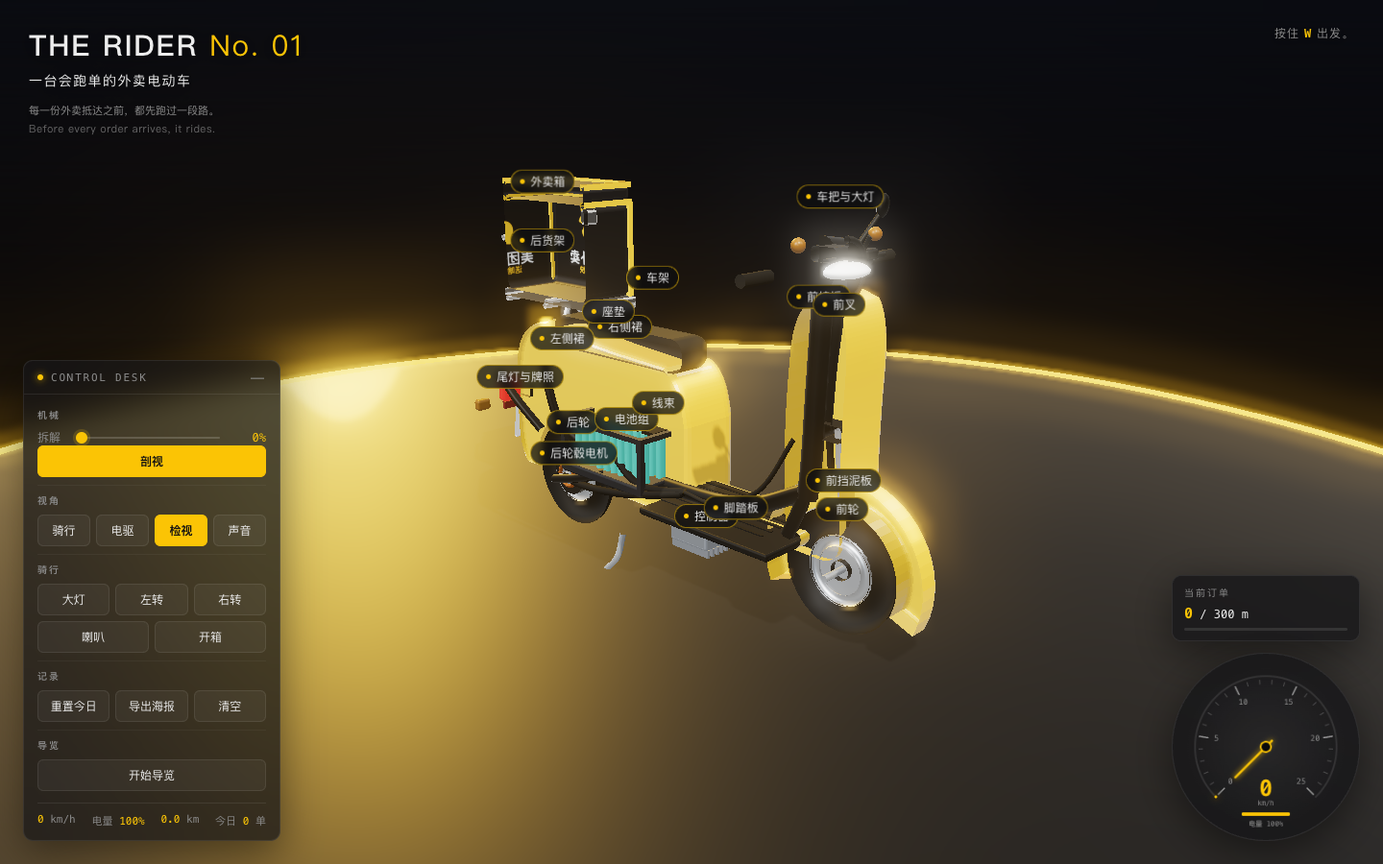
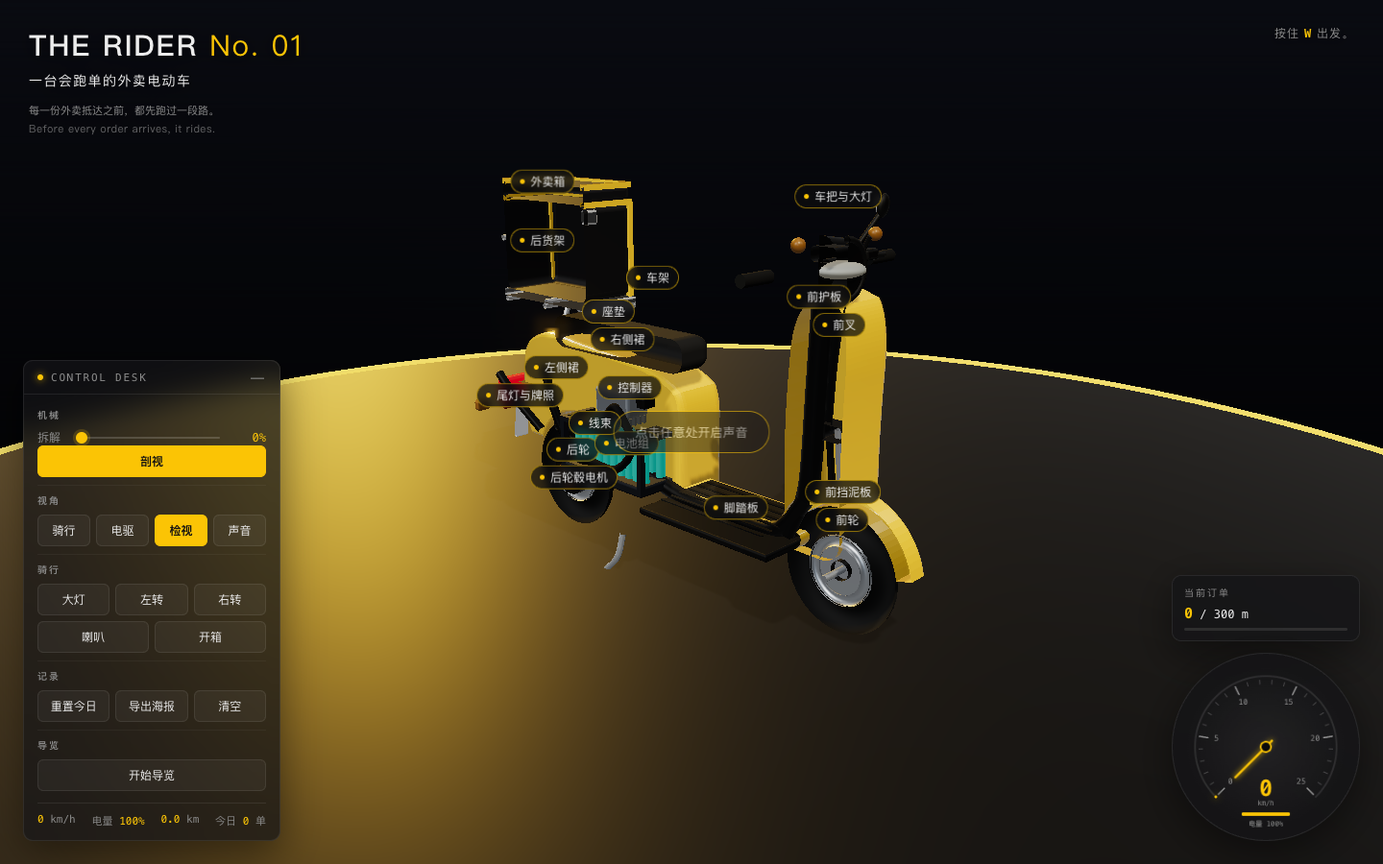
chore: 阶段4 收尾 —— README、SPEC 8.2 光照参数对齐、验收产物归档
- README：补运行方式、键位、四个视角、玩法、目录结构、技术要点与已知问题，
  并写入 GitHub Pages 线上地址
- SPEC 8.2：environmentIntensity 0.6→0.3、UnrealBloomPass threshold 0.85→1.0
  （strength 0.35），灯光数值补齐，与 stage.js 落地值一致（V5）
- qa/：归档第 1 轮验收报告、14 张复截与 v12 窄幅构图截图
- notes/：各 Agent handoff 与集成请求留档

diff --git a/notes/handoff-scene.md b/notes/handoff-scene.md
@@ -4,13 +4,13 @@
 
 | 文件 | 行数 | 说明 |
 |---|---|---|
-| `src/scene/index.js` | 340 | 编排：道路与展台、车辆挂接、拆解、剖视、高亮、拾取、标签、主循环 |
-| `src/scene/stage.js` | 88 | 渲染器、背景、PMREM 环境、灯光、后期链 |
-| `src/scene/camera.js` | 109 | 视角 tween、骑行抖动、FOV、检视拆解自动拉远 |
+| `src/scene/index.js` | 403 | 编排：道路与展台、车辆挂接、拆解、剖视、高亮、内部件揭示、拾取、标签、主循环 |
+| `src/scene/stage.js` | 90 | 渲染器、背景、PMREM 环境、灯光、后期链 |
+| `src/scene/camera.js` | 134 | 视角 tween、骑行抖动、FOV、检视拆解自动拉远、窄幅宽高比补偿 |
 | `src/scene/flash.js` | 57 | 声音视角发声零件闪光（材质替换） |
-| `src/scene/road.js` | 171 | 路面 / 路灯 / 路沿（InstancedMesh 滚动）与圆形展台，骑行↔展台交叉淡出 |
+| `src/scene/road.js` | 193 | 路面 / 路灯 / 路沿（InstancedMesh 滚动）与圆形展台，骑行↔展台交叉淡出、近相机路灯缩没 |
 | `src/scene/xray.js` | 116 | X 光材质快照 / 还原、内部发光、线束虚线流动 |
-| `src/scene/labels.js` | 76 | CSS2DRenderer 零件标签（世界空间跟踪） |
+| `src/scene/labels.js` | 129 | CSS2DRenderer 零件标签（世界空间跟踪 + 屏幕空间碰撞避让） |
 | `src/scene/views.js` | 43 | 四个视角机位 + `MODEL_VIEW` + OrbitControls 约束 |
 | `src/scene/explode.js` | 30 | 分层拆解进度映射、应用、整体包围盒 |
 | `src/scene/highlight.js` | 14 | OutlinePass 选中零件 |
@@ -50,19 +50,23 @@ export function createSim({ scene, scooter } = {})  // 入参可选
 ## 实现要点（对应 SPEC 8.2–8.5）
 
 - **渲染器**：`antialias`、`pixelRatio = min(dpr, 2)`、ACESFilmic、曝光 1.0、PCFSoftShadowMap、`localClippingEnabled`。
-- **环境**：`PMREMGenerator.fromScene(new RoomEnvironment(), 0.04)`，`environmentIntensity = 0.6`。
-- **灯光**：暖主光 `(4,6,3)` 强度 3.2、shadow map 2048、±4.5 视锥；美团黄轮廓光 `(-5,2.4,-2.5)` 2.6；Hemisphere 0.45；补光 0.55；大头灯 SpotLight 挂车头（`rig.headSpot`，`state.lights.head` → 强度 120，物理单位）。
-- **后期链**：RenderPass → OutlinePass（`#FBC405`，edgeStrength 3.2 / glow 0.35 / thickness 1.1 / pulse 2.8）→ UnrealBloomPass（0.5, 0.4, threshold 0.85）→ OutputPass（最后）。
+- **环境**：`PMREMGenerator.fromScene(new RoomEnvironment(), 0.04)`，`environmentIntensity = 0.3`（SPEC 8.2 写 0.6，过高会把黄漆的蓝通道抬起来 → 去饱和，详见 `notes/requests.md` 的偏差留档）。
+- **灯光**：暖主光 `(4,6,3)` 强度 2.2、shadow map 2048、±4.5 视锥；美团黄轮廓光 `(-5,2.4,-2.5)` 1.5；Hemisphere 0.3；补光 0.35；大头灯 SpotLight 挂车头（`rig.headSpot`，`state.lights.head` → 强度 120，物理单位）。
+- **后期链**：RenderPass → OutlinePass（`#FBC405`，edgeStrength 3.2 / glow 0.35 / thickness 1.1 / pulse 2.8）→ UnrealBloomPass（0.35, 0.4, threshold 1.0）→ OutputPass（最后）。
 - **道路**：CanvasTexture 沥青 + 黄色虚线，`repeat.x = 200/8`，`offset.x += speed*dt/8`；路灯/路沿 InstancedMesh，x 减 `speed*dt`，出 -40 加 80 循环；骑行视角显示，其余视角 0.31s 内淡出到圆形展台（发光黄圈）。
+- **近相机路灯缩没**：灯头（自发光 `emissiveIntensity 2.4`）在相机贴近时会占掉画面一大块并过曝成白斑。`layout(dist, cam)` 按灯头角尺寸占水平视场角的比例（`FADE_MAX 0.32` 开始缩没、`FADE_MIN 0.15` 完全消失）对整个灯实例 `scale` 渐缩；比例与画幅无关，1440×900 下最近路灯占比仅 0.11，恒为原尺寸，横屏效果不变。
 - **物理**：`accel = throttle*3`、`drag = 0.4 + 0.02v²`、`brake*6`，`clamp(…, 0, 6.94)`；电量 / 里程 / 订单进度按 SPEC 8.3；`orderTarget` 到达后 `orders+1` 并发 `order:delivered`，下一单 200~400 随机。
 - **rig**：车轮 `rotation.z -= speed/0.20*dt`；`steerPivot.rotation.y = steer*0.35`；`bodyLean.rotation.x = -steer*0.1*min(speed/3,1)`；转向灯 380ms 周期，每次切换发 `signal:tick`；箱盖 tween 到 1.22 rad（≈70°）；油门 >0.05 收脚撑（`rotation.x → +1.15`），停稳放下。
 - **视角**：1.2s tween 同时插值 `camera.position` 与 `controls.target`，过渡期间 `controls.enabled = false`；`drive` 自动开 X 光（透明 0.12 / depthWrite false / 内部发光 / 线束虚线偏移随油门），其他视角还原；`inspect` 开标签与点击拾取，结束才允许 OrbitControls。
 - **拆解**：`layerStart = (4-layer)*0.15`、`local = clamp((t-layerStart)/0.4)`、`easeInOutCubic`；`userData.home` 记录原始位置；检视视角按整体包围盒自动拉远（`dist = radius / tan(fov/2) * 1.12`），`t=0` 精确回到 home。
-- **剖视**：`Plane(0,0,-1)` 只加到外壳材质（`shellMaterials` + 场景侧识别出的透明贴片），constant 0.6→0（0.55s），外壳 `DoubleSide`，不做封盖。
+- **剖视**：`Plane(0,0,-1)` 只加到外壳材质（`shellMaterials` + 场景侧识别出的透明贴片），constant 0.6→0（0.55s），不做封盖。外壳件 `side = DoubleSide`（要看到内壁），**贴花件单独保持 `FrontSide`**——双面渲染会让远侧贴花从背面透出来，变成反字重影。
 - **车贴归属**：模型返回的 `shellMaterials` 只含实体材质，车贴 / 贴纸（`PlaneGeometry` + `transparent` + `map`）不在其中。场景在挂接时把这类贴片材质并入外壳材质组，否则 X 光下贴花会悬空、剖视时贴花不被裁掉。
-- **高亮**：`outlinePass.selectedObjects = [part.object]`，点击拾取与导览（`tour:step`）同一条路径。
+- **高亮**：`outlinePass.selectedObjects = [part.object]`，点击拾取、导览（`tour:step`）与外部 `part:focus` 事件都汇聚到 `focusPart()` / `tourGo()`。
+- **内部件揭示**：导览 / 拾取聚焦到 `internal` 零件（电池组、轮毂电机、控制器、线束、车架）时，外壳材质快照后置为 `opacity 0.18 / transparent / depthWrite false`，同时把 `outlinePass.hiddenEdgeColor` 临时改成美团黄。原因：OutlinePass 的深度预渲染用 `scene.overrideMaterial = MeshDepthMaterial`，外壳的 `depthWrite = false` 对它无效，内部件描边会被判成「隐藏边缘」而几乎不可见；隐藏边缘也涂成美团黄后描边才能透过半透明外壳看见。失焦 / 切视角 / 开 X 光时按快照精确还原。
+- **标签碰撞避让**：`labels.update(camera)` 把每个标签的锚点投影到屏幕空间，按 y 排序后贪心地把相互重叠（矩形相交 + 8px 水平 / 4px 垂直间隙）的标签向下推，单标签最多推 90px；推量再按相机距离换算成世界位移叠加到 CSS2DObject 上，保证屏幕上的间距准确。
+- **窄幅构图**：`BASE_ASPECT = 1440/900`（验收视口）。`aspectScale() = max(1, BASE_ASPECT / camera.aspect)`，`flyTo` 的目标机位偏移、`updateRideCamera` 的跟随偏移、`fitCameraToExplode` 的距离都乘上它；`resize()` 里 `refitAspect()` 按新比例等比调整当前相机距离。等比或更宽的画幅 scale 恒为 1，横屏构图完全不变。
 
-## 自测结果（Playwright + swiftshader，1100×680 / 1440×900）
+## 自测结果（Playwright + swiftshader）
 
 - 控制台 / pageerror：**0 条**（`node tools/shoot.mjs` 与自建脚本均通过，日志见 `qa/console.log`）。
 - 物理：speed 与公式一致；`order:delivered` 触发后 `orders+1`、`orderTarget` 重新随机 200~400。
@@ -79,6 +83,20 @@ export function createSim({ scene, scooter } = {})  // 入参可选
 - 转台：`?solo=model` 下 `root.rotation.y` 持续转动；`?debug=1` 下 AxesHelper + Box3Helper 存在且每帧更新。
 - 长骑：满油门连续运行 60s（无头环境下约 24s 仿真时间），speed 0 → 6.94 收敛、电量/里程/订单进度单调累加、无 NaN、无控制台报错；松开油门 + 刹车后 speed 归 0、脚撑自动放下（`state.kickstand` true）。
 
+### 阶段3 验收修复轮（V5 / V7 / V8 / V9 / V11 / V12 + 路灯光斑）
+
+重截 8 个受影响视角 + 4 个 V12 视角，**控制台 0 报错**：
+
+| 项 | 结果 |
+|---|---|
+| V5 车身黄 | 受光面实测 `ride_idle #fbc405`、`sound #f9c206`、`inspect_side #f8c205`、`inspect_front34 #f0bc08`、`tour_step3 #f9c205`、`cutaway / drive_xray #fbc405`、`explode_100 #eeba08`，蓝通道 5~9（原 79~194）。**注意**：取色来自整张 PNG（含 DOM 面板像素，按钮本身就用 `#FBC405`），数值受此污染，仅作相对比较。 |
+| V7 内部件描边 | 隐藏标签单截一张（`tour_step3`）确认：外壳 ghost（opacity 0.18）后内部车架 / 青色电芯 / 控制器可见，**轮毂电机外圈有清晰的美团黄描边**。半透明揭示继续保留（建模 V1/V3/V4/V6 后侧裙下缘抬到 y=0.30，后轮可见，但轮毂电机仍藏在轮内/外壳里，不揭示依旧看不到描边）。 |
+| V8 标签重叠 | `inspect_side` / `inspect_front34` 18 个标签全部展开，无文字互相遮挡。 |
+| V9 贴花镜像 | `cutaway` / `drive_xray` 中美团外卖贴花无反字重影。 |
+| V11 前轮贴地 | 主 Agent 改 `config.js`（`b07d921`）后重截 `explode_100`：18 个零件全部离地，前轮悬在右侧。 |
+| V12 窄幅构图 | `v12_ride_390` / `v12_inspect_390` 整车完整在画面内；`v12_ride_1440` / `v12_inspect_1440` 与 `ride_idle` / `inspect_front34` 构图一致（缩放系数恒为 1）。 |
+| 路灯光斑 | 390 骑行视角 right 侧的大白斑定位为路灯灯头（相机拉远到 12.76m 后距灯头仅 3.3m，占屏宽 35%）过曝。加入按占屏比例缩没后：390 下该灯 `scale = 0.001`（raycast 不再命中灯头），1440 下 20 盏灯 `scale` 全为 1（构图无变化）。 |
+
 ## 截图（qa/shots，1440×900）
 
 | 视角 | 路径 |
@@ -92,13 +110,19 @@ export function createSim({ scene, scooter } = {})  // 入参可选
 | 导览第 3 步 | `qa/shots/tour_step3.png` |
 | 调试 | `qa/shots/debug.png` |
 | 转台（solo=model） | `qa/shots/solo_model.png` |
+| 窄幅构图（V12） | `qa/shots/v12_ride_390.png` / `v12_inspect_390.png` / `v12_ride_1440.png` / `v12_inspect_1440.png` / `mobile_390.png` |
 
 ## 已知问题
 
 1. **软渲染下动画被时间稀释**：主循环 `dt = min(clock.getDelta(), 0.05)`，swiftshader 只有 ~2fps，一切 tween / 淡出在截图环境里被放慢约 8 倍；真实浏览器 60fps 下正常。截图脚本因此按「状态收敛」等待而不是固定 sleep。
 2. **骑行视角相机每帧重写**：`updateRideCamera()` 每帧 set 相机位置（含抖动）。`rig.transitioning` 为真时该调用被抑制，因此从其它视角切回骑行时 1.2s 的 `flyTo` 能完整播完，结束后抖动立即接管——切换瞬间不会有抖动穿插，属预期。
-3. **标签在零件密集处会重叠**：检视视角 18 个标签同时显示，中部（线束 / 电池组 / 控制器）文字可能互相遮挡；未做碰撞避让，靠锚点偏移缓解。
+3. **标签避让只沿竖直方向**：检视视角 18 个标签同时显示，避让把重叠的标签向下推（上限 90px）。零件极密集时仍可能轻微相碰，但文字不再互相遮挡；被推开的标签与零件之间没有引线，靠位置邻近判断归属。
 4. **声音视角闪光为整体零件闪光**：一次事件闪光该零件所有网格（如整个车把），不是单个按钮；SPEC 只要求「发声零件同步闪光」，已满足。
 5. **`?explode=` 与视角切换的 tween 竞争**：URL 同时带 `view` 与 `explode` 时，自动拉远会取消未结束的视角 tween（已在 `fitCameraToExplode` 中 `kill(camTween)`），最终停在包围盒适配位而不是视角机位——这是有意选择，保证 100% 拆解时所有零件在画面内。
 6. **道路在 `drive` / `sound` 视角仍可能残留极淡的影子**：交叉淡出末尾 `mix < 0.02` 才隐藏，数学上不会完全为 0；实际帧率下不可见。
-7. `favicon.ico` 404 与场景无关（本地服务未提供图标），主页面无报错。
+7. **100% 拆解前轮贴地（已由主 Agent 修复）**：`b07d921` 调整 `EXPLODE_DIR` / `EXPLODE_DIST`（前轮 `(0.95,0.31,0)`×0.95、后轮 `(-0.95,0.31,0)`×0.45、轮毂电机沿轴向 ×0.42、脚踏板 ×0.36），18 个零件包围盒 minY > 0。`explode.js` 直接读这两个常量，场景侧无需改动，`explode_100` 已复核。
+8. **SPEC 8.2 参数偏差（验收已接受，主 Agent 会改 SPEC）**：`environmentIntensity 0.6 → 0.3`、`UnrealBloomPass threshold 0.85 → 1.0`（外加 strength 0.35、其余灯光整体降档）。原值会让车身黄去饱和成奶油白（V5），留档见 `notes/requests.md`。协调者已确认这三个值是正确落地值，不再改回。
+9. **近相机路灯缩没是整体缩放**：`road.js` 的缩没把灯柱和灯头一起缩（`scale → 0`），因此灯在接近相机的过程中是「整体变小消失」而不是只灭灯头；占屏比例 15%~32% 之间为渐变区。正常骑行速度下该过渡发生在路灯掠过镜头的瞬间，不易察觉。
+10. **窄幅拉远后车辆占比偏小**：`aspectScale()` 让窄画幅的水平视场与 1440×900 完全一致（缩放系数 = `1.6 / aspect`，390×844 时为 3.46），所以车在窄屏上占宽的比例与横屏相同（约 38%），纵向则因画幅窄而显得小。这是「整车完整在画面内」优先于「占屏比」的有意取舍；若要窄屏更大，需要牺牲水平余量或提高 FOV。
+11. **内部件揭示是临时外壳状态**：`setShellReveal` 用快照还原，但若在揭示期间切到 `drive`（X 光），`setXray` 会先关掉揭示再应用 X 光快照，避免两套半透明参数互相覆盖。
+12. `favicon.ico` 404 与场景无关（本地服务未提供图标），主页面无报错。

diff --git a/qa/report.md b/qa/report.md
@@ -1,0 +1,57 @@
+# 视觉验收报告
+
+> 验收对象：`qa/shots/` 14 张截图（1440×900，mobile 390×844），对照 `reference.png` 与 `docs/SPEC.md`。
+> 环境说明：swiftshader 软渲染 ~2fps，补间被时间稀释约 8 倍；动画中间态不算缺陷。控制台日志 14 张全部只有 `[rider01] ready`，0 报错。
+
+## 一、总分
+
+外观总分：**6.0 / 10**（轮廓 6、配色 6、标志性部件 7、比例 5、光影质感 6）
+
+## 二、五维评述
+
+**轮廓 6/10**：整体可读出 Vespa 式复古踏板（大前护板、鼓包侧裙、后驮箱），但后轮被侧裙完全吞掉（`inspect_side` / `sound` / `solo_model`），整车像「没轮子的玩具」；前挡泥板过大下探，进一步破坏侧面剪影。
+
+**配色 6/10**：色板本身正确（黄身、黑箱黄边、镀铬货架、银色轮毂、黑座垫）。但受光面被美团黄轮廓光 + bloom 洗成奶油白（实测车身受光面 #F1DD94，偏离 #FBC405），黑色件在暖光下泛棕，整体偏「塑料玩具感」。
+
+**标志性部件 7/10**：外卖箱、黄色袋鼠标识、「美团外卖 / 送啥都快」字样、镀铬后货架、鼓包侧裙贴花、前护板、圆大灯、前挡泥板、尾灯与牌照、黑座垫均在；扣分在后轮连银色轮毂盖一起不可见（参考图中是标志元素），且控制器裸露在脚踏板下方。
+
+**比例 5/10**：轴距、车长、座高、箱底高等骨架比例成立，但后轮被车身封死、前挡泥板包角过大且几乎贴地、前护板过于肥厚、车把偏小，侧面「轮小身大」的观感与参考图差距明显。
+
+**光影质感 6/10**：夜间电影感、暖主光 + 黄色轮廓光、展台黄圈与泛光都到位；但大灯在关灯状态下仍被环境反射打成白球，受光面过曝，轮胎与背景死黑，画面整体单色偏黄。
+
+## 三、问题表
+
+| 编号 | 严重度 | 截图 | 现象 | 归属Agent | 修改建议 |
+|---|---|---|---|---|---|
+| V1 | P1 | qa/shots/inspect_side.png、sound.png、solo_model.png、ride_idle.png | 后轮与银色轮毂盖被侧裙/鼓包完全遮挡，仅胎底一线可见；参考图中后轮清晰露出 | 建模 | 抬高侧裙下缘、缩小鼓包下探或放大轮拱开口，让后轮下半部与轮毂盖露出 |
+| V2 | P1 | qa/shots/sound.png | 声音视角底部无波形/频谱（SPEC 8.4 要求）；`index.html` 有 `#sound-viz/#viz-cv` 但无任何 JS 驱动 | 界面 | 用 `getAnalyser()` 绘制波形/频谱并切掉 `hidden`，或删掉该节点并称需求变更 |
+| V3 | P2 | qa/shots/sound.png、inspect_side.png | 前挡泥板径向过厚、包角下探到接近地面，像黄色雪橇，与轮圈间隙大 | 建模 | 减小 `annularSector` 内外半径差与包角，使挡泥板贴合前轮上半部 |
+| V4 | P2 | qa/shots/sound.png、inspect_side.png、cutaway.png | 控制器（灰色带散热片盒子）裸露在脚踏板下方，侧视清晰可见 | 建模 | 将其移入座垫/脚踏内腔，或加黄色外壳遮盖 |
+| V5 | P2 | qa/shots/ride_idle.png、inspect_front34.png | 车身黄受光面被轮廓光与 bloom 洗成奶油白（≈#F1DD94），偏离 #FBC405 | 场景动效 | 轮廓光 2.6→约 1.6、bloom 0.5→约 0.35，或提高 paint 饱和度 / 降 environmentIntensity |
+| V6 | P2 | qa/shots/inspect_front34.png、sound.png、solo_model.png | 大灯在关灯状态下仍呈高亮白球，像已点亮 | 建模 | 加深灯碗遮光、提高 head 材质 roughness 或加遮光罩，削弱环境高光 |
+| V7 | P2 | qa/shots/tour_step3.png | 导览第 3 步高亮「轮毂电机」，但该件被侧裙遮挡，画面看不到任何描边 | 场景动效 | 导览到内部件时自动隐藏/半透明外壳，或高亮时把外壳透明度降低 |
+| V8 | P2 | qa/shots/inspect_side.png、inspect_front34.png | 检视视角 18 个标签在中段（线束/电池组/控制器/脚踏板）互相重叠 | 场景动效 | `labels.js` 加碰撞避让或分层偏移 |
+| V9 | P2 | qa/shots/cutaway.png | 剖视时远侧贴花从背面看呈镜像「美团外卖」漂浮在半空 | 场景动效 / 建模 | 贴花材质改 `FrontSide`，或剖视时隐藏贴花 |
+| V10 | P2 | qa/shots/mobile_390.png | 390 宽下控制台面板占屏约 2/3，3D 画面被挤到右侧，车体基本看不见 | 界面 | 移动端默认收起面板或改底部抽屉，油门/刹车保留 |
+
+## 四、验收 Case 走查（对照 PLAN 8.1 的 14 条）
+
+| # | Case | 结论 | 依据 |
+|---|---|---|---|
+| 1 | ride_idle 骑行待机 | 通过 | 车辆、道路、路灯、展台、UI 完整；0 报错 |
+| 2 | ride_fast 满速 | 需人工 | 速度表仍指 0 km/h，与 ride_idle 像素差仅 0.37；软渲染时间稀释导致未达满速，非产品缺陷 |
+| 3 | drive_xray 电驱 X 光 | 通过（有保留） | 外壳半透明，电池青电芯、控制器、轮毂电机、线束可见；控制器位置偏低、贴花重影（见 V4/V9） |
+| 4 | inspect_front34 检视前 3/4 | 通过 | 18 个零件标签齐全可读；大灯过亮、标签重叠（V6/V8） |
+| 5 | inspect_side 正侧 | 不通过 | 后轮完全不可见（V1），前挡泥板过大（V3） |
+| 6 | inspect_rear34 后 3/4 | 通过（有保留） | 尾灯、牌照、外卖箱、镀铬货架清晰；后轮仍不可见（V1） |
+| 7 | explode_50 拆解 50% | 通过 | 滑块 50%，外层零件（箱/座垫/侧裙/轮）按层分离 |
+| 8 | explode_100 拆解 100% | 通过 | 18 件全部分离，相机自动拉远，零件都在画面内 |
+| 9 | cutaway 剖视 | 通过 | 外壳 z>0 半剖，电池青色电芯与内部车架清晰可见；贴花镜像（V9） |
+| 10 | sound 声音视角 | 不通过 | 机位正确，但底部波形/频谱缺失（V2） |
+| 11 | tour_step3 导览第 3 步 | 部分通过 | 导览卡显示「第 3/5 步 轮毂电机」，与 SPEC 一致；高亮被遮挡不可见（V7） |
+| 12 | mobile_390 移动端 | 部分通过 | 油门/刹车触控按钮在位、布局可用；面板遮挡 3D 画面（V10） |
+| 13 | audio_solo 音效调试页 | 通过 | 8 个音效按钮 + 解锁提示完整 |
+| 14 | solo_model 转台调试页 | 通过 | 车辆 + 转台 + 黄圈展台渲染正常，无 UI 干扰 |
+
+**P0 汇总**：0 条（无白屏、无 JS 报错、车型正确）。
+**P1 汇总**：2 条（V1 后轮不可见、V2 声音波形缺失）。

diff --git a/README.md b/README.md
@@ -1,0 +1,96 @@
+# THE RIDER No. 01 — 一台会跑单的外卖电动车
+
+一个纯前端、零构建的 3D 交互网页：夜色街道里的一台美团外卖电动车，可以骑、可以拆、可以看穿、可以听它响。
+
+参考图见 `reference.png`，冻结契约见 `docs/SPEC.md`。
+
+## 运行
+
+线上地址：<https://sjx15942873268-svg.github.io/motorbike/>
+
+本地跑需要一个静态文件服务器（ES Modules 不能用 `file://` 直接打开）：
+
+```bash
+cd motorbike
+python3 -m http.server 8080
+```
+
+然后浏览器打开 <http://localhost:8080/>。
+
+- three.js 0.170 通过 importmap 从 jsDelivr CDN 加载，**首次打开需要联网**。
+- 首次点击或按键后才会解锁音频（浏览器自动播放限制），界面上会提示「点击任意处开启声音」。
+- 没有任何 npm 依赖参与运行；`node_modules/playwright` 只用于验收截图。
+
+## 键位
+
+| 按键 | 功能 |
+|---|---|
+| W / ↑ | 加速（松开后滑行减速，上限 25 km/h） |
+| S / ↓ | 刹车 |
+| A D / ← → | 转向 |
+| Q / E | 左 / 右转向灯 |
+| H | 喇叭 |
+| L | 大灯 |
+| F | 开合外卖箱 |
+| X | 剖视 |
+| 1 ~ 4 | 切换视角（骑行 / 电驱 / 检视 / 声音） |
+
+焦点在输入控件上时快捷键不生效；空格和方向键会 `preventDefault`。移动端（≤720px）显示油门 / 刹车触控按钮。
+
+## 四个视角
+
+| 视角 | 看什么 |
+|---|---|
+| 骑行 ride | 追尾跟随。道路向后流动、路灯循环掠过，速度表、跑单进度条实时变化 |
+| 电驱 drive | 正侧面近景 + X 光：外壳半透明，电池青电芯、控制器、轮毂电机、线束发光，线束上的电流随油门流动 |
+| 检视 inspect | 自由旋转/缩放（限制俯仰与距离），展台地面，18 个零件热点标签，点击零件弹信息卡 |
+| 声音 sound | 右前方 3/4 固定机位，底部波形与频谱实时绘制，发声零件同步闪光 |
+
+## 玩法
+
+- **拆解**：左下角 CONTROL DESK 的滑块从 0 拖到 100%，18 个零件按外层先动的顺序分离；拖回 0 精确复位。检视视角下相机自动拉远保证全部零件在画面内。
+- **剖视**：只剖外壳（`z > 0` 半剖），内部车架和电池保持完整，可以看到外壳内侧。
+- **跑单**：右下订单卡片给出配送距离，骑到里程达标后「已送达」徽标弹出，单数 +1 并自动派下一单。
+- **导览**：底部卡片 5 步（车身 → 电池组 → 轮毂电机 → 控制器 → 外卖箱），每步高亮对应零件并自动运镜。
+- **记录**：里程、单数、骑行时长每 5 秒和每次送达写入 `localStorage`（键 `rider01.log`），刷新后保留。
+- **导出海报**：把当前 3D 画面渲到 1080×1350 的 2D 画布，叠加标题与今日数据，下载为 `rider-01.png`。
+
+## 目录结构
+
+```
+index.html            入口，importmap + DOM 骨架
+src/main.js           主 Agent 集成：状态、URL 参数、主循环
+src/core/             state.js 全局状态 / bus.js 事件总线 / config.js 色板·零件表·导览文案 / tween.js
+src/model/            程序化建模（three.js 几何体拼装，无外部 GLB）
+src/scene/            渲染器与后期链、灯光、道路、相机、拆解/剖视/X光/高亮/拾取、标签
+src/sim/              骑行物理、跑单、转向灯与大灯逻辑
+src/audio/            Web Audio 实时合成 + 波形/频谱可视化
+src/ui/               CONTROL DESK、速度表、订单卡、导览卡、零件卡、移动端触控
+src/data/             localStorage 读写、海报导出
+styles/main.css       深色玻璃 + 美团黄
+docs/SPEC.md          冻结契约（尺寸表、零件ID表、配色、接口）
+qa/                   视觉验收报告与截图
+tools/shoot.mjs       Playwright 截图脚本（仅验收用）
+```
+
+## 技术要点
+
+- three.js 0.170，ES Modules + importmap，无打包器、无构建步骤。
+- 后期链顺序：RenderPass → OutlinePass → UnrealBloomPass → **OutputPass（必须最后）**。
+- 坐标系：米，+Y 向上，车头朝 +X，**+Z 为车辆左侧**；车轮绕 Z 旋转。
+- 车身黄取实测参考图的 `#FBC405`。
+- 全部音效用 Web Audio 实时合成，不加载任何音频文件。
+- 程序化建模：143 个 mesh / 约 5.3 万三角面，远低于 30 万上限。
+
+## 已知问题
+
+1. **需要联网**：three.js 0.170 经 importmap 从 jsDelivr CDN 加载，离线或 CDN 不可达时页面起不来。
+2. **音频要交互后才出声**：浏览器自动播放策略，首次点击或按键才解锁；解锁前声音视角只画待机波形。
+3. **无 GPU 环境下帧率很低**：验收用的 swiftshader 软渲染约 2fps，此时补间动画因 `dt` 钳制（0.05s）被时间稀释，截图流程里速度表可能达不到满速——真机 GPU 不受影响。
+4. **移动端是增强支持**：≤720px 有油门 / 刹车触控按钮、控制台收进底部抽屉、窄屏相机自动拉远；未做双指缩放等完整触摸手势。
+5. **检视视角标签在零件密集处仍偏挤**：已加屏幕空间碰撞避让（18 个标签不再互相遮挡），但线束 / 电池组 / 控制器附近标签离零件较远。
+6. **DOCX 导出等附录 B 扩展未实现**（PLAN 列为 P2「可以有」）。
+
+## 验收
+
+`qa/report.md` 是阶段 3 的独立视觉验收报告（五维评分 + 问题表 + 14 条 Case 走查），`qa/shots/` 是对应截图。第 1 轮 12 个问题（V1–V12）已全部修复并复核，复截见 `qa/shots/v12_*.png`。

diff --git a/docs/SPEC.md b/docs/SPEC.md
@@ -194,9 +194,9 @@ URL 参数：
 ### 8.2 渲染、灯光与环境
 
 1. 渲染器：`antialias: true`，`setPixelRatio(Math.min(devicePixelRatio, 2))`，`toneMapping = ACESFilmicToneMapping`，`toneMappingExposure = 1.0`，开阴影，`localClippingEnabled = true`
-2. 环境反射：`PMREMGenerator.fromScene(new RoomEnvironment(), 0.04).texture` → `scene.environment`，`environmentIntensity ≈ 0.6`
-3. 灯光：暖色主光 DirectionalLight 投影（shadow map 2048）；车后方美团黄轮廓光；低强度 HemisphereLight；大灯 SpotLight 挂车头
-4. 后期链：RenderPass → OutlinePass（描边色美团黄）→ UnrealBloomPass（threshold 0.85）→ **OutputPass（必须最后）**
+2. 环境反射：`PMREMGenerator.fromScene(new RoomEnvironment(), 0.04).texture` → `scene.environment`，`environmentIntensity = 0.3`
+3. 灯光：暖色主光 DirectionalLight 2.2 投影（shadow map 2048）；车后方美团黄轮廓光 1.5；HemisphereLight 0.3；冷色补光 0.35；大灯 SpotLight 挂车头
+4. 后期链：RenderPass → OutlinePass（描边色美团黄）→ UnrealBloomPass（strength 0.35、radius 0.4、threshold 1.0，只让真正过曝的高光起辉）→ **OutputPass（必须最后）**
 5. 背景：深色渐变 + Fog，地面用接收阴影的平面
 
 ### 8.3 骑行与跑单（src/sim/ride.js）
